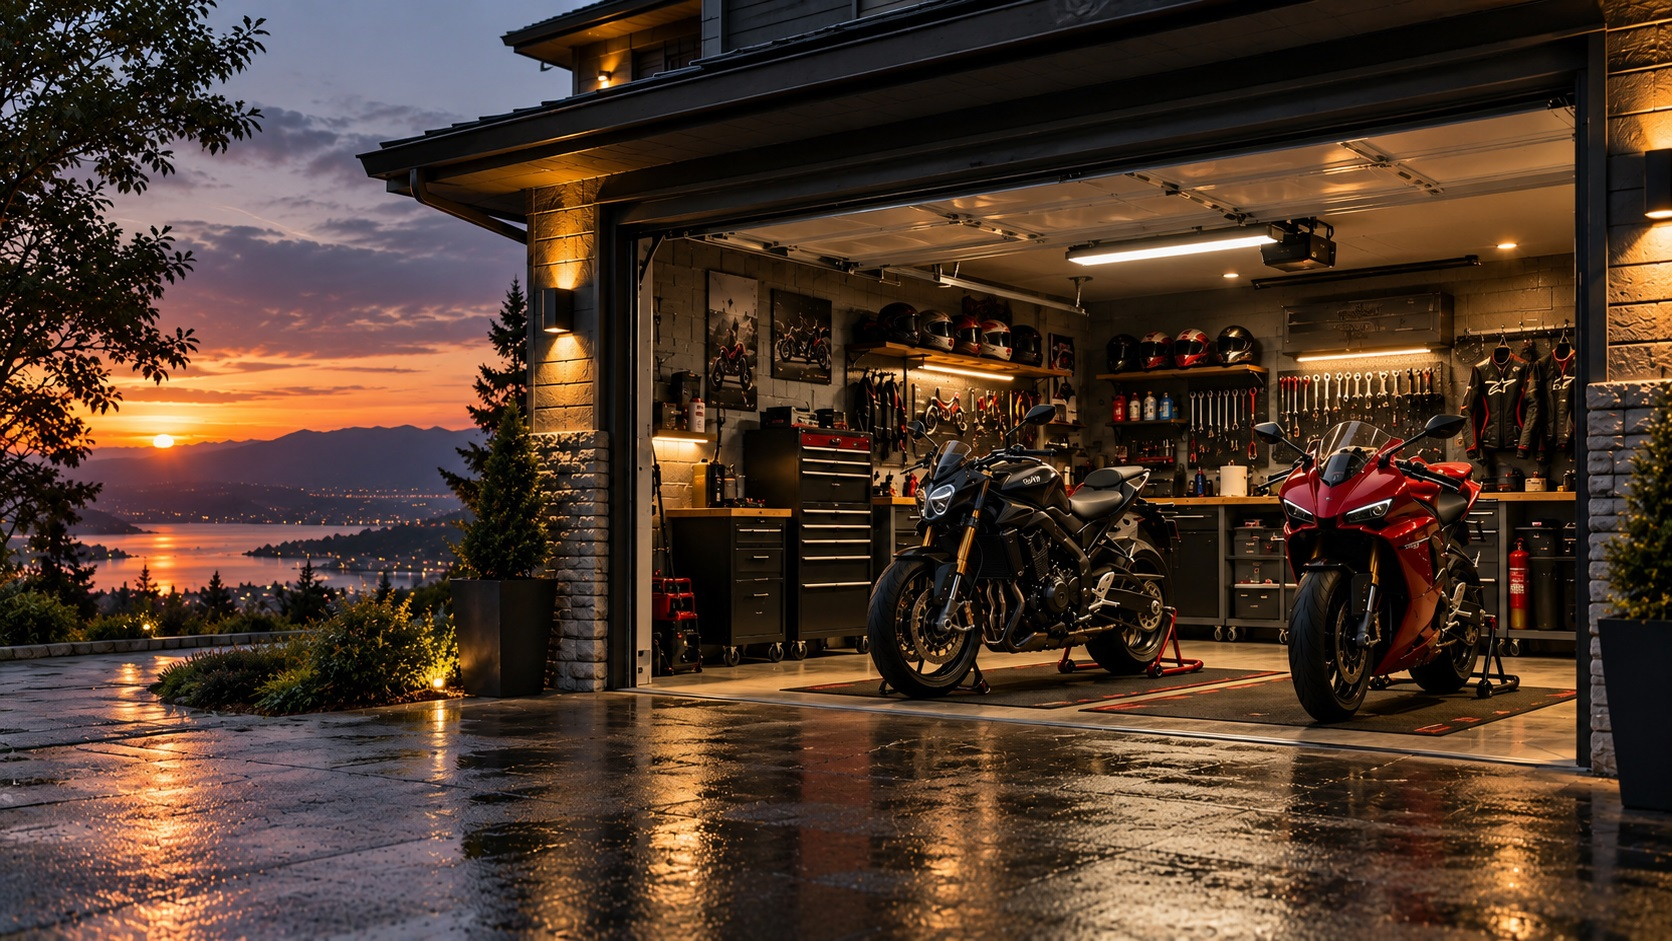
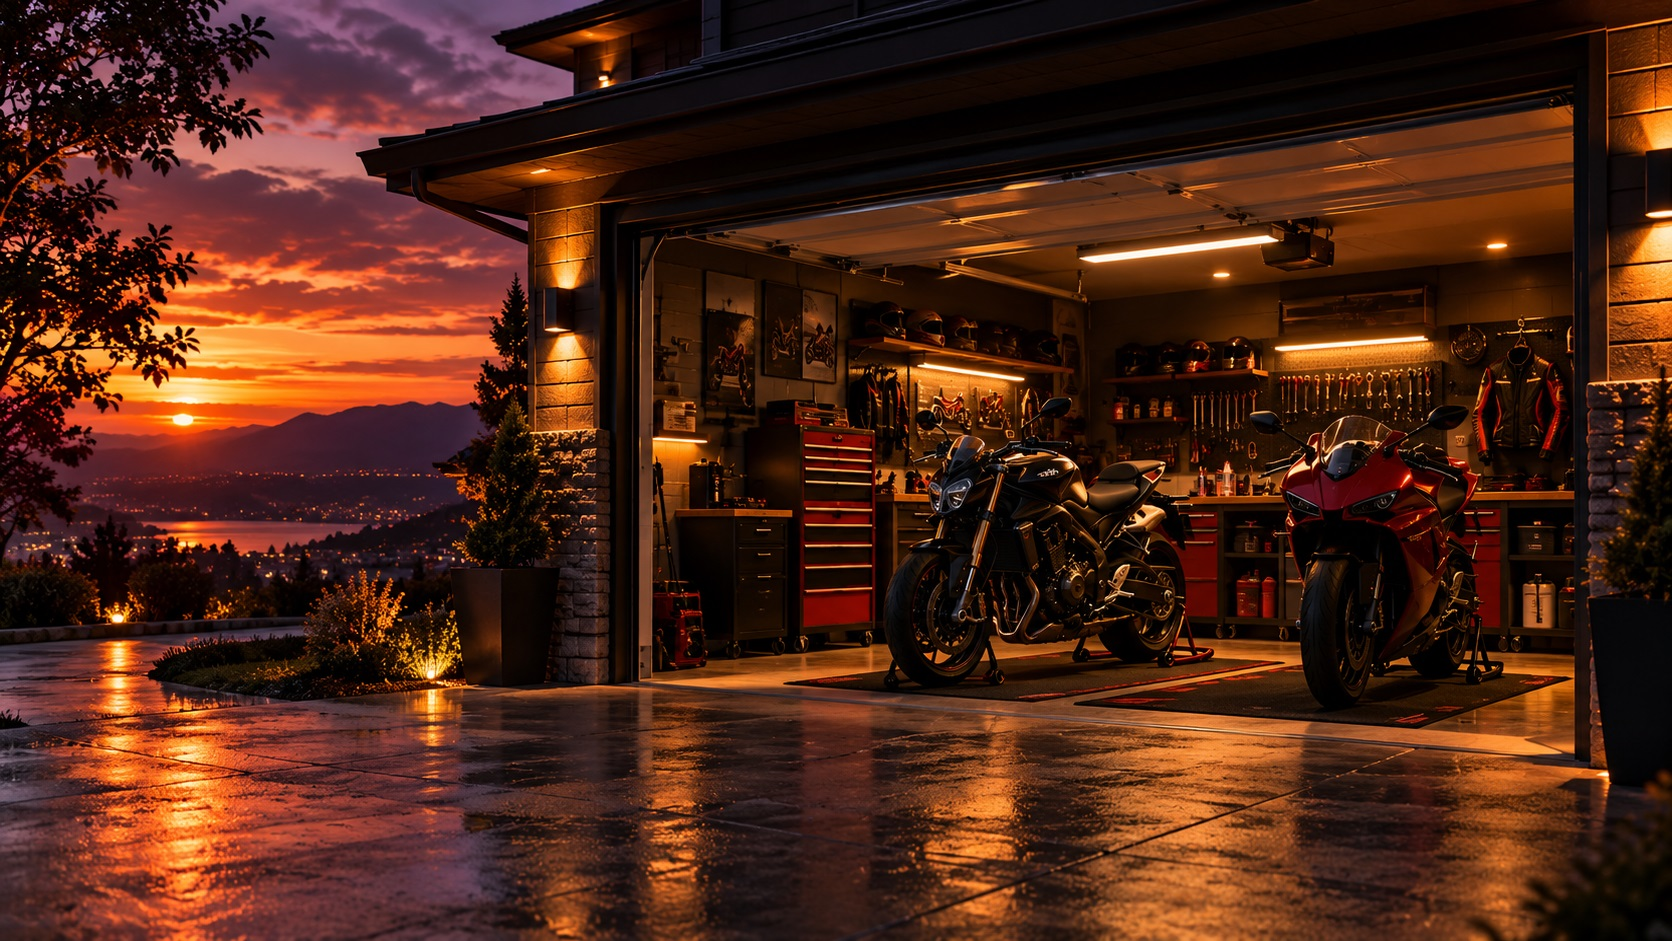
Prikaz verzije aplikacije
Dodana oznaka verzije v1.0.0 na dno bočnog izbornika i u novi odjeljak O aplikaciji unutar Postavki. Usklađene projektne verzije i dodani prijevodi na svih pet jezika.

diff --git a/src/pages/Postavke.jsx b/src/pages/Postavke.jsx
@@ -1,3 +1,4 @@
+import { APP_VERSION } from '../config/appInfo'
 import { usePreferences } from '../i18n/Preferences'
 import { useState } from 'react'
 import { createBackup, downloadBackup, restoreBackup, validateBackup } from '../utils/backupStorage'
@@ -119,6 +120,11 @@ function Postavke({ userId }) {
       )}
       {message && <p className="postavke-message" role="status">{message}</p>}
       {error && <p className="postavke-error" role="alert">{error}</p>}
+      <section className="postavke-about" aria-labelledby="postavke-about-title">
+        <h2 id="postavke-about-title">{t('O aplikaciji')}</h2>
+        <p>{t('Virtualna garaža za motocikle')}</p>
+        <div className="postavke-version-row"><span>{t('Verzija aplikacije')}</span><strong>v{APP_VERSION}</strong></div>
+      </section>
       <p className="postavke-footnote">{t('Sigurnosna kopija sprema se na tvoje računalo. Ne uključuje korisničke lozinke ni podatke drugih korisnika.')}</p>
     </div>
   )

diff --git a/src/styles/Postavke.css b/src/styles/Postavke.css
@@ -51,3 +51,10 @@
 .postavke-language-section{margin-top:16px}
 .postavke-language-section select{width:100%;max-width:380px;padding:12px 14px;border-radius:10px;background:var(--vg-surface,var(--vg-soft));color:var(--vg-text);border:1px solid var(--vg-border)}
 .postavke-language-label{display:block;margin-bottom:9px;font-weight:600;color:var(--vg-text)}
+
+.postavke-about{margin-top:22px;padding:24px;border:1px solid var(--vg-border);border-radius:16px;background:var(--vg-card);color:var(--vg-text)}
+.postavke-about h2{margin:0 0 8px;font-size:19px}
+.postavke-about p{margin:0 0 18px;color:var(--vg-muted);font-size:14px}
+.postavke-version-row{display:flex;align-items:center;justify-content:space-between;gap:16px;padding-top:15px;border-top:1px solid var(--vg-border);font-size:14px}
+.postavke-version-row span{color:var(--vg-muted)}
+.postavke-version-row strong{color:var(--vg-text);font-weight:700}

diff --git a/src/App.css b/src/App.css
@@ -32,6 +32,8 @@
   box-sizing: border-box;
   background: var(--vg-surface);
   border-right: 1px solid var(--vg-border);
+  display: flex;
+  flex-direction: column;
 }
 
 .logo {
@@ -74,6 +76,7 @@
   display: flex;
   flex-direction: column;
   gap: 6px;
+  flex: 1;
 }
 
 .nav-item {
@@ -392,3 +395,8 @@
     font-size: 11px;
   }
 }
+
+.sidebar-version{display:flex;justify-content:space-between;align-items:center;gap:10px;margin-top:22px;padding:14px 4px 0;border-top:1px solid var(--vg-border);color:var(--vg-muted);font-size:11px;line-height:1.4}
+.sidebar-version span:first-child{min-width:0}
+.sidebar-version span:last-child{white-space:nowrap}
+@media(max-width:768px){.sidebar-version{margin-top:16px}}

diff --git a/src/i18n/translations.js b/src/i18n/translations.js
@@ -5,6 +5,9 @@ export const languages = [
 ]
 
 const rows = [
+['O aplikaciji','About the app','Über die App','Informazioni sull’app','O aplikaciji'],
+['Verzija aplikacije','App version','App-Version','Versione dell’app','Različica aplikacije'],
+['Virtualna garaža za motocikle','Virtual Garage for Motorcycles','Virtuelle Motorradgarage','Garage virtuale per moto','Virtualna garaža za motocikle'],
 ['Početna','Home','Startseite','Home','Domov'],
 ['Vozila','Motorcycles','Motorräder','Moto','Motocikli'],
 ['Servisi','Services','Wartung','Manutenzione','Servisi'],

diff --git a/src/components/Sidebar.jsx b/src/components/Sidebar.jsx
@@ -1,3 +1,4 @@
+import { APP_VERSION } from '../config/appInfo'
 import { usePreferences } from '../i18n/Preferences'
 const icons = {
   home: <><path d="m3 10 9-7 9 7" /><path d="M5 9v12h14V9" /><path d="M9 21v-7h6v7" /></>,
@@ -62,6 +63,7 @@ function Sidebar({ activePage, onNavigate }) {
           </button>
         ))}
       </nav>
+      <div className="sidebar-version" aria-label={`${t('Verzija aplikacije')} ${APP_VERSION}`}><span>{t('Virtualna garaža za motocikle')}</span><span>v{APP_VERSION}</span></div>
     </aside>
   )
 }

diff --git a/src/config/appInfo.js b/src/config/appInfo.js
@@ -1,0 +1,1 @@
+export const APP_VERSION = '1.0.0'
